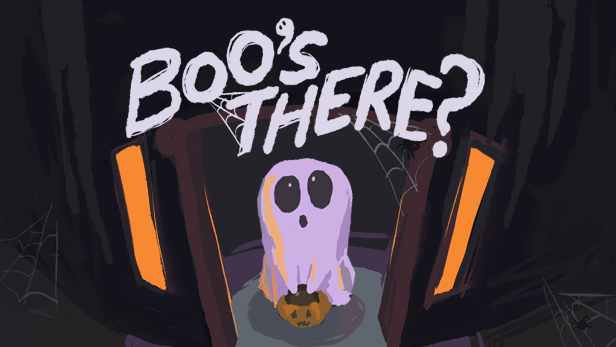
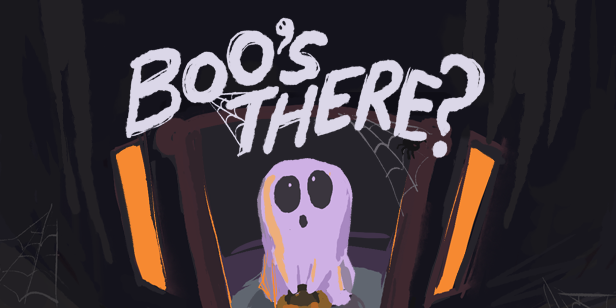
Change preview size to 3:1

diff --git a/css/index.css b/css/index.css
@@ -41,7 +41,7 @@
         width: 100%; /* The width is 100%, when the viewport is 800px or smaller */
     }
     .portfolioImg {
-        height: 50vw;
+        height: 35vw;
     }
 }
 
@@ -50,7 +50,7 @@
         width: 100%; /* The width is 100%, when the viewport is 800px or smaller */
     }
     .portfolioImg {
-        height: 35vw;
+        height: 40vw;
     }
 }
 

diff --git a/unspecifiedbridge.html b/unspecifiedbridge.html
@@ -49,7 +49,7 @@
                     </p>
                 </td>
                 <td width="50%">
-                    <img style="display: block;" src="assets/unspecifiedbridge_preview.png" width="100%" />
+                    <img style="display: block;" src="assets/unspecifiedbridge_cover.png" width="100%" />
                 </td>
             </tr>
         </table>

diff --git a/unnamedsurgeon.html b/unnamedsurgeon.html
@@ -49,7 +49,7 @@
                     </p>
                 </td>
                 <td width="50%">
-                    <img style="display: block;" src="assets/unnamedsurgeon_preview.png" width="100%" />
+                    <img style="display: block;" src="assets/unnamedsurgeon_cover.png" width="100%" />
                 </td>
             </tr>
         </table>

diff --git a/momentum.html b/momentum.html
@@ -47,7 +47,7 @@
                     </p>
                 </td>
                 <td width="50%">
-                    <img style="display: block;" src="assets/momentum_preview.png" width="100%" />
+                    <img style="display: block;" src="assets/momentum_cover.png" width="100%" />
                 </td>
             </tr>
         </table>

diff --git a/portalrecreation.html b/portalrecreation.html
@@ -49,7 +49,7 @@
                     </p>
                 </td>
                 <td width="50%">
-                    <img style="display: block;" src="assets/portal_preview.png" width="100%" />
+                    <img style="display: block;" src="assets/portal_cover.png" width="100%" />
                 </td>
             </tr>
         </table>

diff --git a/hhwdi.html b/hhwdi.html
@@ -51,7 +51,7 @@
                     </p>
                 </td>
                 <td width="50%">
-                    <img style="display: block;" src="assets/hhwdi_preview.png" width="100%" />
+                    <img style="display: block;" src="assets/hhwdi_cover.png" width="100%" />
                 </td>
             </tr>
         </table>

diff --git a/duoq.html b/duoq.html
@@ -47,7 +47,7 @@
                     </p>
                 </td>
                 <td width="50%">
-                    <img style="display: block;" src="assets/duoq_preview.png" width="100%" />
+                    <img style="display: block;" src="assets/duoq_cover.png" width="100%" />
                 </td>
             </tr>
         </table>
